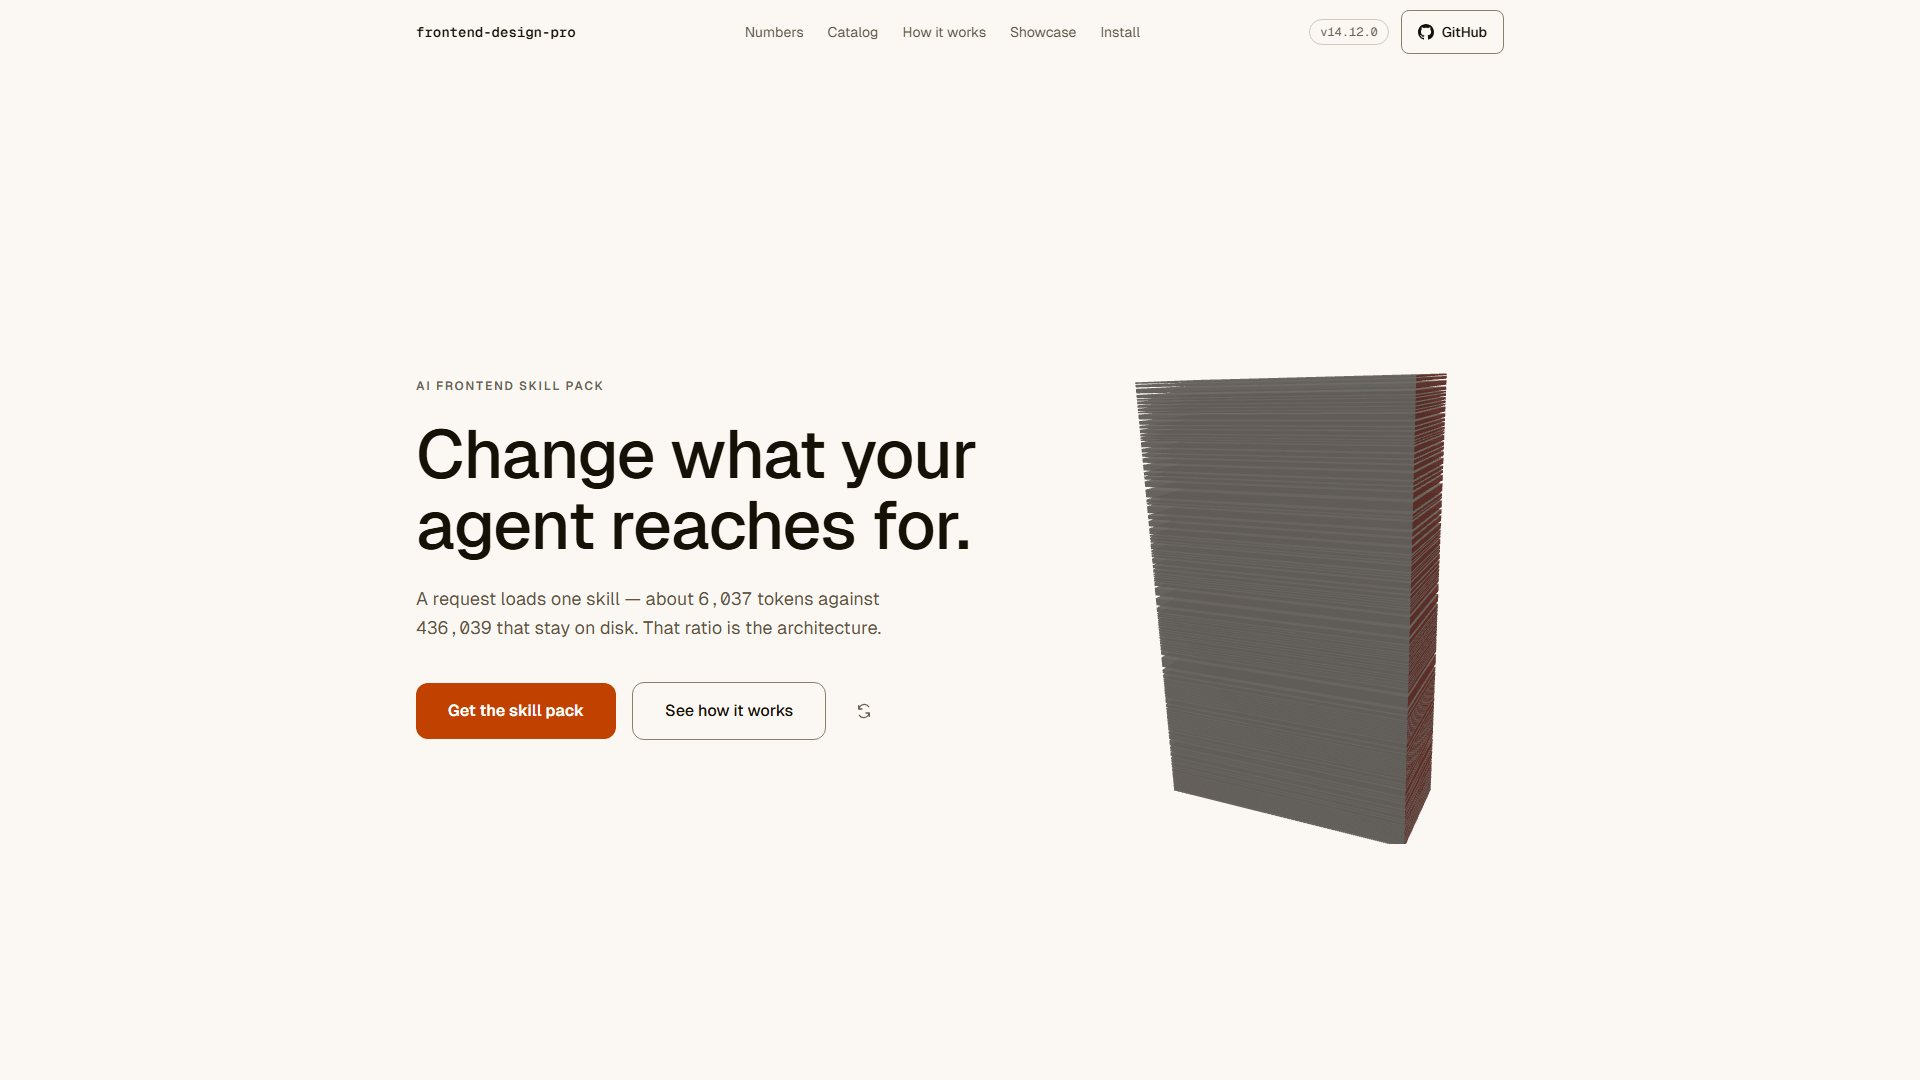
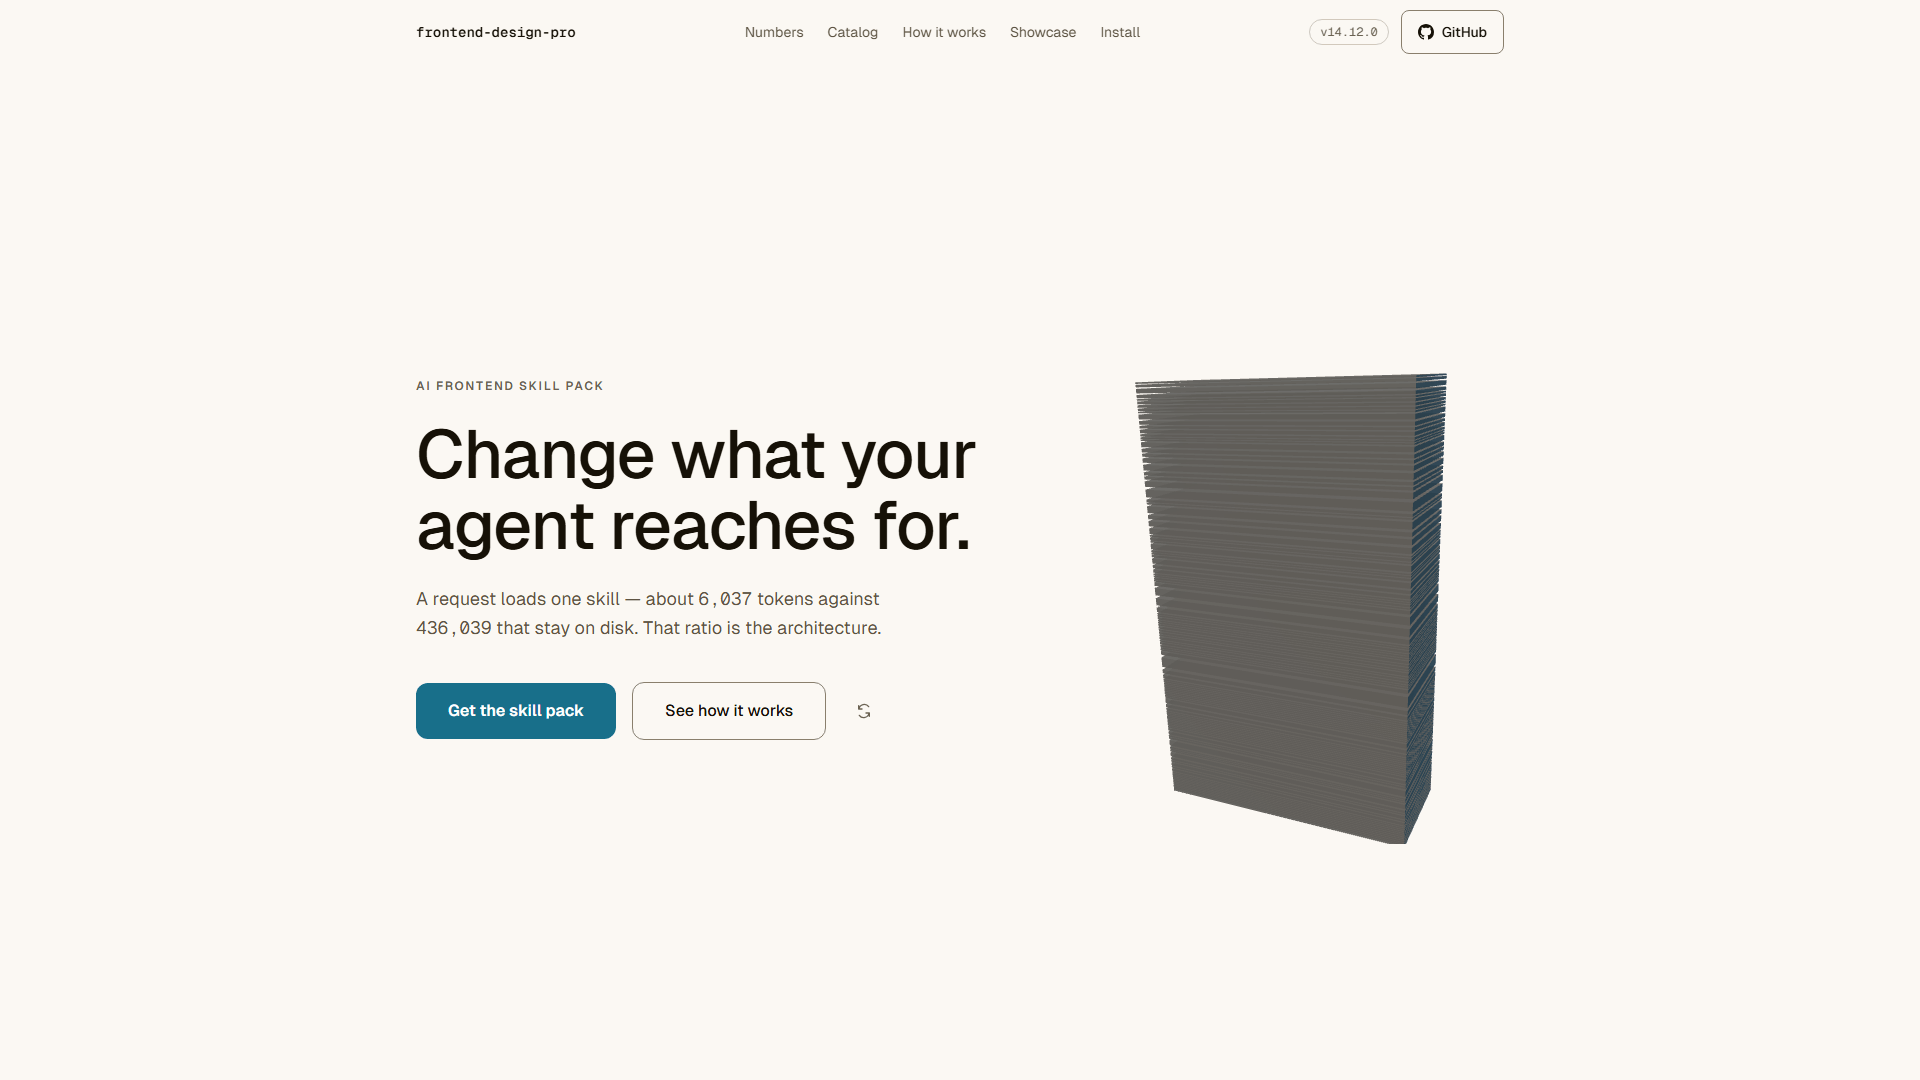
feat(home): retire the terracotta accent for a measured marine blue (#149)
The accent was chosen by measurement, and three of those measurements say
the value that shipped through v14 should not have.

1. `oklch(55% 0.18 45)` was OUTSIDE the sRGB gamut. Its blue channel computes
   to -0.0153; every browser clipped it to zero, so the authored colour was
   never the rendered one — the chroma ceiling at that L and H is 0.157. The
   documented ratios were right only because they had been measured after the
   clip. The new value is in gamut with room.

2. It sat almost exactly BETWEEN the two status colours: OKLab dE 0.085 to
   `--color-danger` and 0.085 to `--color-warning`. The page's primary
   call-to-action was that close to its own critical-severity marker — the
   tightest pair in the palette. Marine's worst separation from any other
   chromatic token is 0.167, roughly double.

3. Cream ground plus terracotta accent is two thirds of a cluster this pack's
   own always-loaded wall names as an AI-design default. The face here is
   Geist, not a serif, so it was never the full three — but a pack that tells
   agents not to reach for that palette should not wear most of it on its own
   front door.

`oklch(50.5% 0.088 225)`. As text: `bg-page` 5.40 / `bg-surface` 4.94 /
`bg-elevated` 5.70, where terracotta sat at exactly 4.50 on `bg-surface` — the
AA floor, no headroom at all. As a fill under white 5.72. On the footer's
`bg-invert` 3.29, still above the 3.0 large-text floor its numerals-and-fills
restriction already depends on.
[…]

Changed region(s): [[0.7188, 0.3361, 0.75, 0.7639], [0.2188, 0.6111, 0.3438, 0.7028]]

diff --git a/home/tokens.css b/home/tokens.css
@@ -36,9 +36,12 @@
 @theme {
   /* ── Ground ─────────────────────────────────────────────────────────────── */
   --color-bg-page: oklch(98% 0.008 80);
-  /* Lightness held at 95% deliberately — accent-as-text on `bg-surface` is the
-     page's tightest ratio (4.50, exactly at the AA floor; see the Accent block
-     below), so `bg-surface` can gain warmth but not lose luminance. The chroma
+  /* Lightness held at 95% deliberately — accent-as-text on `bg-surface` is
+     still the page's tightest ratio (4.94; see the Accent block below), so
+     `bg-surface` can gain warmth but not lose luminance. It sat at exactly
+     4.50, the AA floor, under the previous accent; the current one brought
+     headroom, and the pin stays regardless — the constraint is structural,
+     and the next accent may not be as generous. The chroma
      bump (0.015 → 0.022) and the hue shift toward `bg-page`'s own H=80 read as
      a deeper cream of the same family — enough, alongside the 1px section seams
      and the `signature` grain (both in `lib/tokens.ts`), to make the below-hero
@@ -50,16 +53,44 @@
   --color-bg-invert: oklch(18% 0.02 270);
 
   /* ── Accent — one chromatic colour on the whole page ──────────────────────
-     Terracotta clears AA in both directions without splitting into two tokens
-     the way `demo/landing-page`'s cobalt had to: as text on every light ground
-     (4.92 / 4.50 / 4.92 / 5.19) AND as a fill under white (5.21). One token
-     does both jobs here. The one place it does NOT clear AA-body is as small
-     text on `bg-invert` (3.61, large-text only) — the footer uses it for large
-     numerals/headings and button fills only, never small links; see
-     `ink-invert-secondary` for footer body/link colour. */
-  --color-accent: oklch(55% 0.18 45);
+     A deep marine blue. It clears AA in both directions without splitting into
+     two tokens the way `demo/landing-page`'s cobalt had to: as text on all
+     three light grounds (`bg-page` 5.40 / `bg-surface` 4.94 / `bg-elevated`
+     5.70) AND as a fill under white (5.72). One token does both jobs. The one
+     place it does NOT clear AA-body is as small text on `bg-invert` (3.29,
+     large-text only) — the footer uses it for large numerals/headings and
+     button fills only, never small links; see `ink-invert-secondary` for the
+     footer's body/link colour.
+
+     ── Why this hue, and not the terracotta that shipped through v14 ────────
+     Three measurements decided it, none of them taste:
+
+     1. `oklch(55% 0.18 45)` was OUT of the sRGB gamut. Its blue channel
+        computes to -0.0153 and every browser clipped it to zero, so the
+        authored value was never the rendered one — the chroma ceiling at that
+        L and H is 0.157. The old ratios were correct only because they had
+        been measured after the clip. This value is in gamut with room.
+     2. It sat almost exactly BETWEEN the two status colours: OKLab ΔE 0.085
+        to `--color-danger` and 0.085 to `--color-warning`. The page's primary
+        call-to-action was that close to its own critical-severity marker.
+        Marine's worst separation from any other chromatic token in the
+        palette is 0.167 (to the `mesh` world) — roughly double.
+     3. Cream ground plus terracotta accent is two thirds of a cluster the
+        pack's own always-loaded wall names as an AI-design default (root
+        `SKILL.md`, and `design-principles/references/anthropic-frontend-design.md`).
+        The face here is Geist, not a serif, so it was never the full three —
+        but a pack that tells agents not to reach for that palette should not
+        be wearing most of it on its own front door.
+
+     Lightness is not a free choice at any hue. Two floors pull opposite ways —
+     accent-as-text on `bg-surface` needs at least 4.5, and accent on the
+     footer's `bg-invert` needs at least 3.0 for the large numerals it already
+     fills — and between them they leave a window about four percentage points
+     wide at every hue. Chroma is pinned at 92% of the sRGB ceiling for this L
+     and H, so the browser never has to clip it. */
+  --color-accent: oklch(50.5% 0.088 225);
   --color-accent-ink: oklch(100% 0 0);
-  --color-accent-glow: oklch(55% 0.18 45 / 0.12);
+  --color-accent-glow: oklch(50.5% 0.088 225 / 0.12);
 
   /* ── Ink ────────────────────────────────────────────────────────────────── */
   --color-text-primary: oklch(18% 0.02 80);

diff --git a/home/components/HeroDepthScene.tsx b/home/components/HeroDepthScene.tsx
@@ -147,7 +147,8 @@ const fragmentShader = /* glsl */ `
     // Without it a plain fresnel term peaks on exactly the faces a stack of
     // thin slabs shows most of — the horizontal ones, seen almost edge-on —
     // so every stratum's top and bottom glowed and the whole object read as
-    // a solid terracotta mass rather than a graphite one with a lit edge.
+    // a solid mass in the accent hue rather than a graphite one with a lit
+    // edge.
     // The flat faces are lit in ink; only the turning edge takes the hue.
     float fresnel = pow(1.0 - max(dot(N, V), 0.0), 3.0);
     float rim = fresnel * (1.0 - abs(N.y));
@@ -155,7 +156,7 @@ const fragmentShader = /* glsl */ `
     // The body is a warm taupe — the page's ink carried most of the way to
     // its paper. Two earlier passes proved the extremes both fail on a cream
     // ground: at full ink the object is a black brick whose seams vanish, and
-    // with the accent mixed into the body it is a terracotta one. A mid tone
+    // with the accent mixed into the body it is a brick in the accent hue. A mid tone
     // is what lets all three cues read at once — the lit top face of each
     // stratum, the page showing through the seam beneath it, and the hue on
     // the turning edge. It also keeps the accent scarce, which is the rule
@@ -163,7 +164,22 @@ const fragmentShader = /* glsl */ `
     // looked at, not smeared across the largest object on the page.
     vec3 body = mix(uInk, uPaper, 0.5);
     vec3 color = mix(body * 0.32, body * 1.04, key) * vLit;
-    color += uAccent * rim * 0.9 * vLit;
+    // 1.55, not the 0.9 this shipped with. The coefficient is not a free
+    // constant — it is tuned against the accent's CHROMA, and the accent
+    // changed hue in a direction where sRGB simply has less chroma to give:
+    // 0.157 at the old H 45, 0.088 at H 225. Left at 0.9 the rim measured
+    // roughly half its former force in a rendered screenshot (95th-percentile
+    // saturation over the object's pixels fell 0.261 -> 0.098, and the share
+    // of the object carrying any hue at all fell 9.4% -> 4.8%), which is the
+    // one thing the object cannot afford to lose: the flat faces are ink, so
+    // the turning edge is the ONLY place the page's accent appears here.
+    // 1.55 restores the rim's peak luminance to exactly what it was (99th
+    // percentile 0.627, both before and after) while leaving the body
+    // untouched (median saturation 0.0435 -> 0.0374, i.e. still ink). It is
+    // deliberately not pushed further: past this the edge is brighter than
+    // the design was ever tuned for, and the remaining saturation gap is a
+    // property of the hue, not something a multiplier can buy back.
+    color += uAccent * rim * 1.55 * vLit;
     color += uAccent * vHover * 0.55;
     color = mix(color, uAccent, clamp(vIgnite, 0.0, 1.0) * 0.94);
 
@@ -243,7 +259,7 @@ export function HeroDepthScene({
     // recompile the GLSL program every frame.
     const geometry = new THREE.BoxGeometry(1, 1, 1);
     const uniforms = {
-      uAccent: { value: readColorVar("--color-accent", "oklch(55% 0.18 45)") },
+      uAccent: { value: readColorVar("--color-accent", "oklch(50.5% 0.088 225)") },
       uInk: { value: readColorVar("--color-text-primary", "oklch(18% 0.02 80)") },
       uPaper: { value: readColorVar("--color-bg-page", "oklch(98% 0.008 80)") },
       uReveal: { value: reduced ? 1 : 0 },

diff --git a/home/lib/worlds.ts b/home/lib/worlds.ts
@@ -10,18 +10,25 @@
  * documents, never eyeballed. Worst case across the three light grounds
  * (bg-page / bg-surface / bg-elevated):
  *
- *   signature  oklch(55%   0.18 45)   4.92 / 4.50 / 5.19
+ *   signature  oklch(50.5% 0.088 225) 5.40 / 4.94 / 5.70
  *   mesh       oklch(54.6% 0.22 270)  4.97 / 4.55 / 5.25
  *   grain      oklch(52%   0.12 120)  5.05 / 4.63 / 5.33
  *   grid       oklch(55%   0.17 310)  4.98 / 4.56 / 5.26
  *
  * All four clear 4.5:1 AA as text on every light ground and as a fill under
- * white; all four sit around 3.5–3.6:1 against the footer's `bg-invert`,
- * matching `signature`'s own existing large-text/fill-only restriction there
- * (see `tokens.css`'s Accent comment) — none of the four is used for small
- * text on the footer.
+ * white; all four sit between 3.29 and 3.57:1 against the footer's
+ * `bg-invert`, matching `signature`'s own existing large-text/fill-only
+ * restriction there (see `tokens.css`'s Accent comment) — none of the four is
+ * used for small text on the footer.
  *
- * `signature`'s accent is deliberately unchanged from today's value.
+ * `signature` is the one that changed. It was a terracotta at H 45 for the
+ * pack's whole life; `tokens.css`'s Accent comment carries the three measured
+ * reasons it is a marine blue now, the short version being that it was out of
+ * gamut, it was ΔE 0.085 from `--color-danger`, and the palette it belonged to
+ * is one the pack's own wall tells agents not to reach for. The other three
+ * worlds are untouched. Worth noting what the move bought at the level of the
+ * set: the four accents now sit at H 120 / 225 / 270 / 310 instead of
+ * stranding one of them down at H 45, between the two status hues.
  *
  * **All four worlds now render the hero's object.** They did not use to: the
  * shader this replaced carried contrast and cooling maths hand-tuned against
@@ -60,9 +67,9 @@ export interface WorldDef {
 export const WORLDS: WorldDef[] = [
   {
     id: "signature",
-    accent: "oklch(55% 0.18 45)",
+    accent: "oklch(50.5% 0.088 225)",
     accentInk: "oklch(100% 0 0)",
-    accentGlow: "oklch(55% 0.18 45 / 0.12)",
+    accentGlow: "oklch(50.5% 0.088 225 / 0.12)",
     headlineWeight: "font-medium",
   },
   {

diff --git a/home/DESIGN.md b/home/DESIGN.md
@@ -23,9 +23,9 @@
   --color-bg-invert: oklch(18% 0.02 270);       /* footer only */
 
   /* Accent — one chromatic hue on the whole page */
-  --color-accent: oklch(55% 0.18 45);           /* terracotta */
+  --color-accent: oklch(50.5% 0.088 225);       /* marine blue */
   --color-accent-ink: oklch(100% 0 0);
-  --color-accent-glow: oklch(55% 0.18 45 / 0.12);
+  --color-accent-glow: oklch(50.5% 0.088 225 / 0.12);
 
   /* Ink */
   --color-text-primary: oklch(18% 0.02 80);
@@ -54,8 +54,9 @@
 - `--color-accent` is the page's **only** chromatic hue — it already appears in more than one place (hero glow, CTA fills, metric numbers, eyebrow labels, step-card motifs) and that is correct: restraint means *no second accent hue exists anywhere on the page*, not that the accent appears exactly once. (This corrects an imprecise reading from earlier planning — the root README's screenshot alt text describes the hero specifically, captured above-the-fold per `SCREENSHOT_CONTRIBUTION.md`, and even there the accent already does double duty as the glow *and* the CTA fill. The claim was never "one occurrence"; it's "one hue.")
 - **New components (`ShowcaseCard` badges, `SectionSkillCatalog` card emphasis) use `--color-emphasis`/`--color-emphasis-bg`, never `--color-accent`.** This is a distinct, narrower rule: accent-level color is reserved for primary calls-to-action and the page's own live-metric numbers, so a badge on a screenshot card never competes with an actual "Get the skill pack" button for visual priority. `--color-emphasis`'s exact contrast ratios (text-on-bg, and against `--color-emphasis-bg`) are stated here as measured-in-spirit but must be re-verified against `pages:verify`'s axe pass once built — flagged explicitly in the plan as a Phase 2 risk, not silently assumed.
 - One ground family, one accent hue, one emphasis-neutral family. Every gradient on the page is a soft single-hue accent wash fading to transparent, never a purple→pink→blue AI-gradient shape (`COL-03`). **The hero rebuild narrowed this sanction rather than widening it**: the hero's radial accent glow and the radial `bg-page` scrim that used to sit over it are both gone, so the only gradient left anywhere is the optional, non-default `mesh` world's three positioned `radial-gradient` washes of `color-mix(in oklch, var(--color-accent) …, transparent)` (`lib/tokens.ts`). The default `signature` world, the hero, and the base page now carry **no gradient at all**; `signature`'s grain texture (§6) is an alpha-only desaturated noise — not a gradient and not a colour — so it adds tooth without adding a hue.
-- **The hero's object introduces no colour.** `HeroDepthScene` lights the slab with two tokens read at runtime — `--color-text-primary` and `--color-bg-page`, mixed to a warm taupe body — and spends `--color-accent` only on the silhouette rim, the stratum under the pointer, and the one that ignites. The accent is deliberately *not* mixed into the body: an early pass did, and the object read as a terracotta brick, which is the same restraint failure as a second accent hue wearing the first one's clothes.
-- **`--color-bg-surface` is a deeper cream at the same lightness (`oklch(95% 0.022 80)`), not a darker grey.** Lightness is pinned at 95% because accent-as-text on `bg-surface` is the page's tightest ratio (4.50, exactly at the AA floor); the surface can gain chroma and shift toward `bg-page`'s own H=80, but it cannot lose luminance. The warmth plus the §6 seams and grain are what separate the below-hero sections — a lightness step is not available here.
+- **The accent is a marine blue, and it was chosen by measurement.** It replaced a terracotta that had shipped since the page was built, for three reasons that are all recorded in full in [`tokens.css`](tokens.css)'s Accent comment: the old value was outside the sRGB gamut (blue channel −0.0153, clipped by every browser, so the authored colour was never the rendered one); it sat at OKLab ΔE 0.085 from **both** `--color-danger` and `--color-warning`, putting the page's primary call-to-action almost exactly on top of its own critical-severity marker; and cream-plus-terracotta is two thirds of a cluster this pack's own always-loaded wall names as an AI-design default. Marine's worst separation from any other chromatic token is 0.167 — about double — and it is in gamut. The cost, stated because it is real: chroma drops from 0.157 to 0.088, so the accent carries visibly less force than it did. On a page whose keywords are *warm, restrained, evidentiary* that reads as consistent, but it is a genuine change in temperature and it was checked in a browser, not assumed.
+- **The hero's object introduces no colour.** `HeroDepthScene` lights the slab with two tokens read at runtime — `--color-text-primary` and `--color-bg-page`, mixed to a warm taupe body — and spends `--color-accent` only on the silhouette rim, the stratum under the pointer, and the one that ignites. The accent is deliberately *not* mixed into the body: an early pass did, and the object read as a brick in the accent hue, which is the same restraint failure as a second accent hue wearing the first one's clothes.
+- **`--color-bg-surface` is a deeper cream at the same lightness (`oklch(95% 0.022 80)`), not a darker grey.** Lightness is pinned at 95% because accent-as-text on `bg-surface` is the page's tightest ratio (4.94); the surface can gain chroma and shift toward `bg-page`'s own H=80, but it cannot lose luminance. Under the terracotta this replaced that ratio was 4.50 — exactly the AA floor, no headroom at all. The pin stays anyway: the constraint is structural, not a property of whichever accent is current. The warmth plus the §6 seams and grain are what separate the below-hero sections — a lightness step is not available here.
 
 ## 3. Typography Rules
 

diff --git a/README.md b/README.md
@@ -483,7 +483,7 @@ npm run dev   # http://localhost:3000
 ### See it in action
 
 <div align="center">
-<a href="https://krishna-modi12.github.io/frontend-design-pro/"><img src="home/screenshot.png" alt="frontend-design-pro's own homepage — warm off-white ground, a Three.js shader-mesh glow behind a canvas particle field tracing the real headline 'Change what your agent reaches for.', and the same terracotta accent carried through every call to action on the page" width="80%"></a>
+<a href="https://krishna-modi12.github.io/frontend-design-pro/"><img src="home/screenshot.png" alt="frontend-design-pro's own homepage — warm off-white ground, a single WebGL-lit object of stacked strata turning behind the real headline 'Change what your agent reaches for.', and the same marine-blue accent carried through every call to action on the page" width="80%"></a>
 <br><sub><a href="https://krishna-modi12.github.io/frontend-design-pro/">Open it live</a> · <a href="home/">source</a> · <a href="home/screenshot-full.png">full page</a> — a curated skill catalog, the router, the checker and four real shipped projects are further down, all running the real thing.</sub>
 </div>
 

diff --git a/home/README.md b/home/README.md
@@ -16,7 +16,11 @@ same component conventions the rest of this repo's examples are held to.
 ## Why this palette, why one lit object
 
 The design brief this page was rebuilt from asked for a warm-editorial ground
-and a terracotta accent. The hero has been through three shapes: a canvas
+and a terracotta accent. The ground stayed; the accent did not, and
+[`tokens.css`](tokens.css) carries the three measurements that retired it — it
+was out of the sRGB gamut, it was ΔE 0.085 from the page's own danger colour,
+and it was most of a palette this pack's wall tells agents not to reach for.
+It is a marine blue now. The hero has been through three shapes: a canvas
 particle-typography hero, then a Three.js shader-mesh background, and now a
 single lit object built from the pack's own reference tree. All of it is
 checked against this pack's own rules before shipping, not just against a
